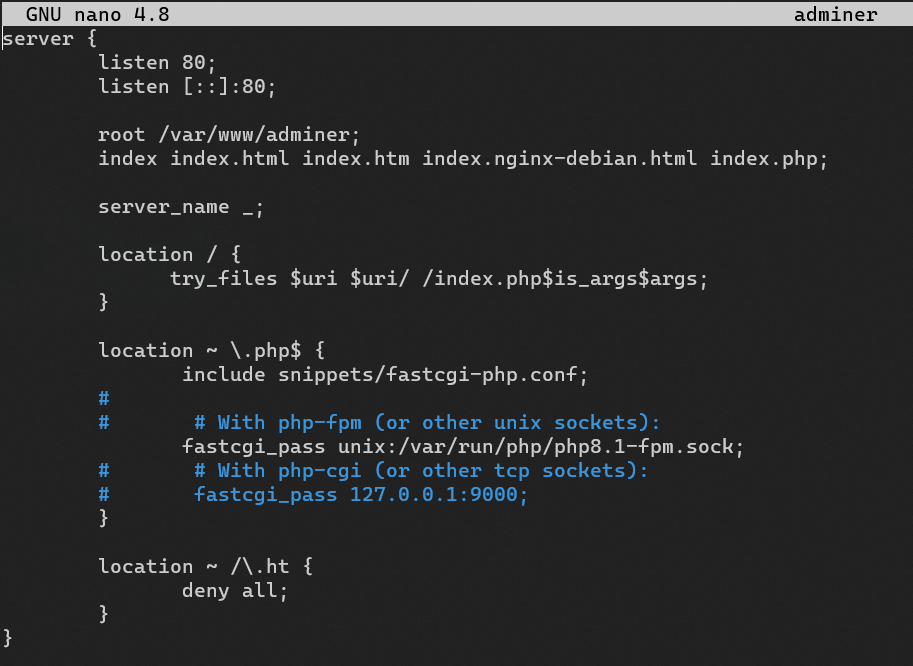
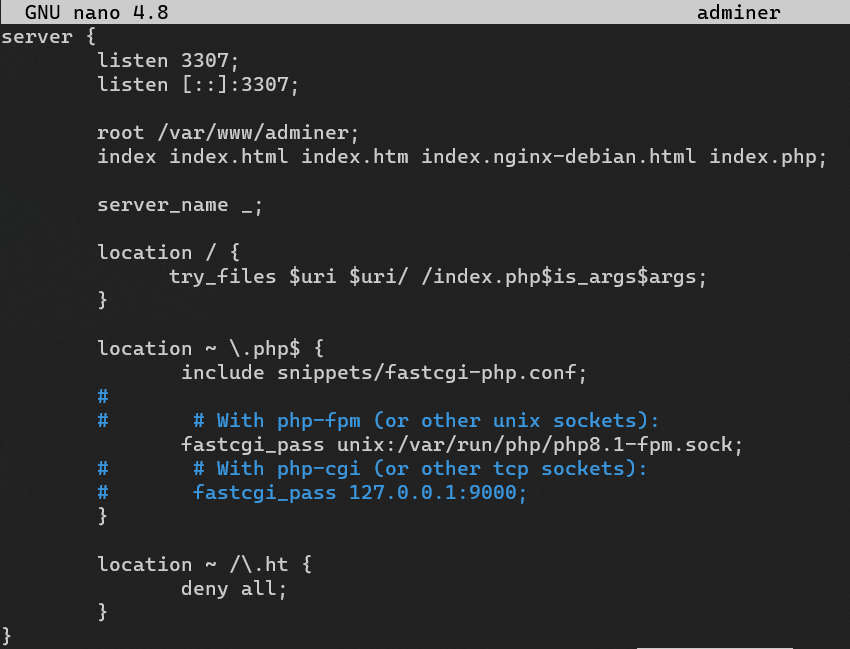
modified:   docs/deployment/deploy-ubuntu-vps-without-docker copy.md 	modified:   static/img/deploy-ubuntu-without-docker/deploy-ubuntu-wihtout-docker-adminer-edit-file.png 	new file:   static/img/deploy-ubuntu-without-docker/deploy-ubuntu-wihtout-docker-adminer-finish.png 	modified:   static/img/de

diff --git a/docs/deployment/deploy-ubuntu-vps-without-docker copy.md b/docs/deployment/deploy-ubuntu-vps-without-docker copy.md
@@ -72,7 +72,7 @@ In the documentation, we use mysql PHP 8.1. You can use another version.
 - Install software-properties-common, which adds management for additional software sources.
 
 ```
-sudo apt-get install software-properties-common
+sudo apt install software-properties-common
 ```
 
 - Install the repository ppa:ondrej/php, which will give you all your versions of PHP.
@@ -81,7 +81,7 @@ sudo apt-get install software-properties-common
 sudo add-apt-repository ppa:ondrej/php
 ```
 
-- Update apt-get again so your package manager can see the newly listed packages.
+- Update apt again so your package manager can see the newly listed packages.
 
 ```
 sudo apt update
@@ -179,13 +179,13 @@ sudo nano adminer
 
 ```
 server {
-        listen 80;
-        listen [::]:80;
+        listen 3307;
+        listen [::]:3307;
 
         root /var/www/adminer;
         index index.html index.htm index.nginx-debian.html index.php;
 
-        server_name www.{your_domain} {your_domain};
+        server_name _;
 
         location / {
               try_files $uri $uri/ /index.php$is_args$args;
@@ -205,6 +205,9 @@ server {
         }
 }
 ```
+
+listen : You can change the port according to your needs. For example we use port 3307.
+server_name : You can change with your domain. Because in this example it doesn't have a domain, the server_name is left blank and we use port 3307 to access the adminer.
 
 ![Deploy ubuntu wihtout docker adminer edit file](/img/deploy-ubuntu-without-docker/deploy-ubuntu-wihtout-docker-adminer-edit-file.png)
 
@@ -236,6 +239,13 @@ service nginx reload
 ```
 
 ![Deploy ubuntu wihtout docker finish nginx project](/img/deploy-ubuntu-without-docker/deploy-ubuntu-wihtout-docker-finish-nginx-project.png)
+
+-  You can access adminer by opening your-ip:3307.
+
+```
+your-ip:3307
+```
+![Deploy ubuntu wihtout docker finish nginx project](/img/deploy-ubuntu-without-docker/deploy-ubuntu-wihtout-docker-adminer-finish.png)
 
 ## Install Composer
 - To quickly install Composer in the current directory, run the following script in your terminal. 
@@ -431,6 +441,12 @@ FILESYSTEM_DRIVER=public
 
 ```
 composer install
+```
+
+- Run command to generate the key.
+
+```
+php artisan key:generate
 ```
 
 - Run database migration.
